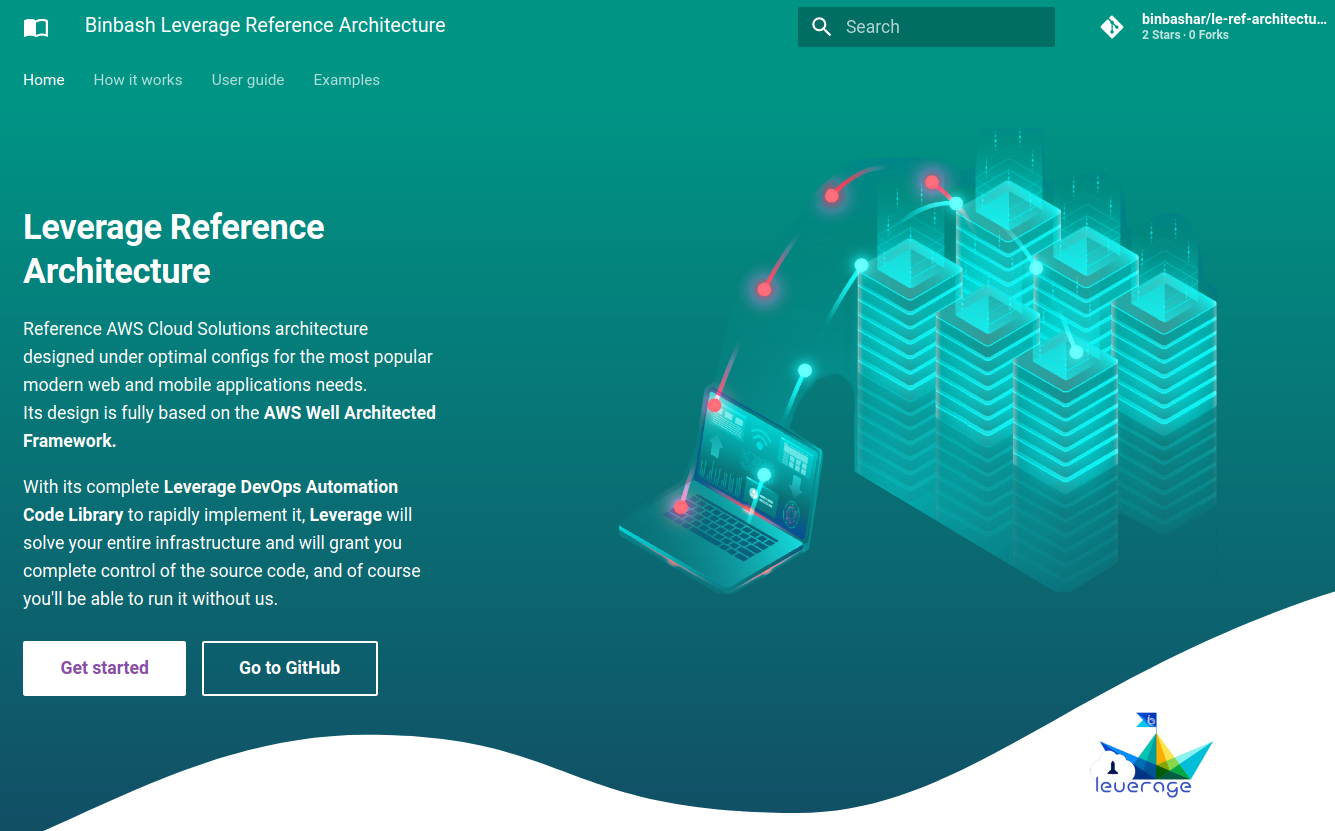
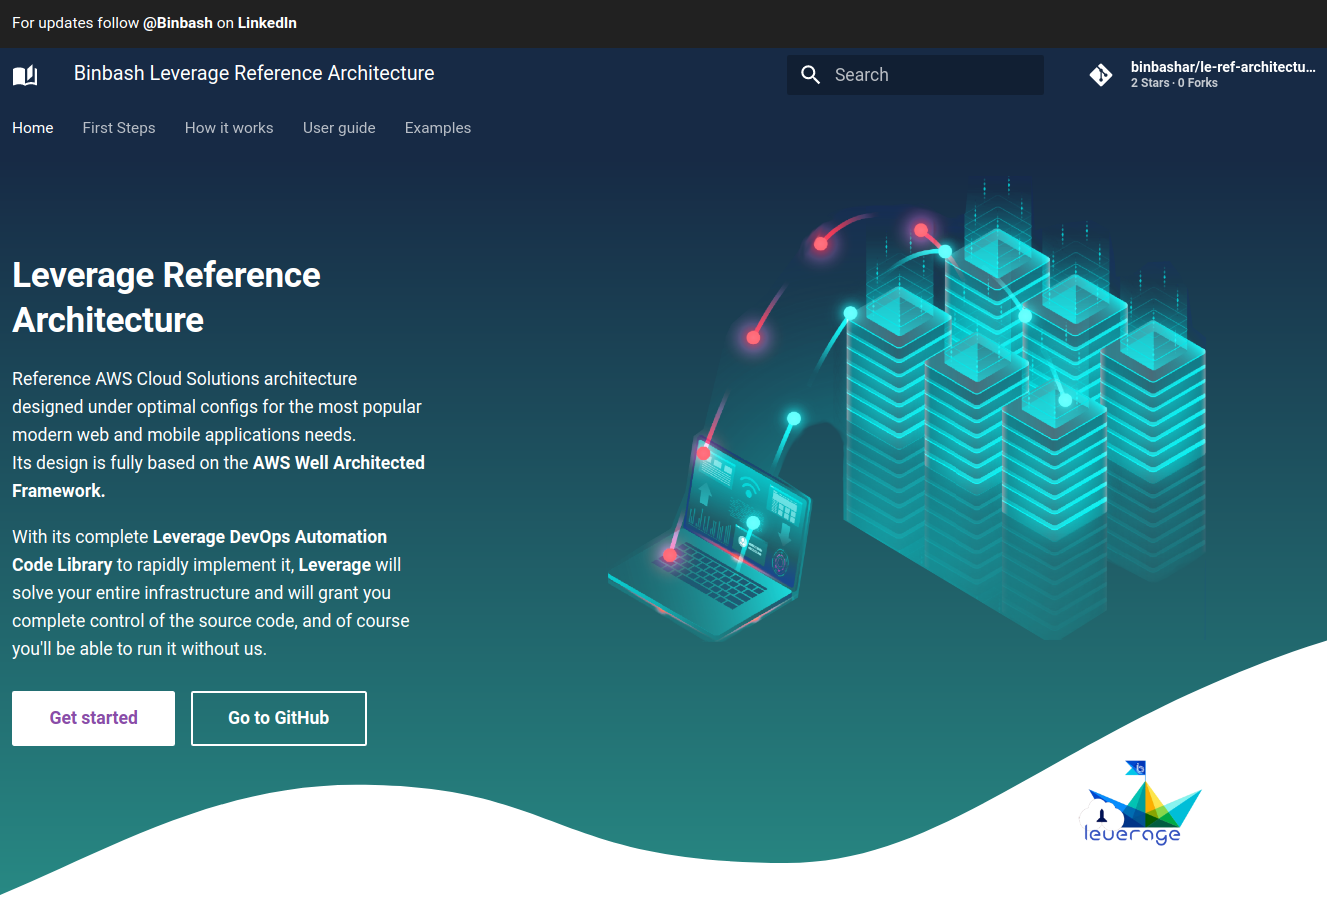
BBL-19 | user-guide/network/vpc updated + minor changes

diff --git a/docs/user-guide/network/vpc.md b/docs/user-guide/network/vpc.md
@@ -1,7 +1,31 @@
 # Network Layer
 
-## How it works
-TODO
-
+!!! help "How it works"
+    :books: [**documentation:** Networking](../../how-it-works/network/vpc.md)
+    
 ## User guide
-TODO
+
+Please follow the steps below to orchestrate your `base-network` layer, 1st in your
+[`project-shared`](https://github.com/binbashar/le-tf-infra-aws/tree/master/shared/base-network) AWS account and
+afterwards in the necessary member accounts which will host network connected resources (EC2, Lambda, EKS, RDS, ALB, NLB, etc):  
+
+* [x] [`project-apps-devstg`](https://github.com/binbashar/le-tf-infra-aws/tree/master/apps-devstg/base-network) account.
+* [x] [`project-apps-prd`](https://github.com/binbashar/le-tf-infra-aws/tree/master/apps-prd/base-network) account.
+
+!!! example "Network layer standard creation workflow"
+    1. Please follow 
+    [Terraform `make` workflow](https://leverage.binbash.com.ar/user-guide/base-workflow/repo-le-tf-infra-aws/) for
+    each of your accounts.
+    2. We'll start by `project-shared` AWS Account Update (add | remove | customize) your VPC associated code before 
+    deploying this layer [shared/base-network](https://github.com/binbashar/le-tf-infra-aws/tree/master/shared/base-network)
+        Main files
+        - :file_folder: [network.tf](https://github.com/binbashar/le-tf-infra-aws/blob/master/shared/base-network/network.tf)
+        - :file_folder: [locals.tf](https://github.com/binbashar/le-tf-infra-aws/blob/master/shared/base-network/locals.tf)
+    3. Repeat for every AWS member Account that needs its own VPC 
+    [Access AWS Organization member account](https://aws.amazon.com/premiumsupport/knowledge-center/organizations-member-account-access/)        
+    consider repeating step 3. but for the corresponding member accounts.
+
+
+### Next Steps
+
+:books: [AWS VPC Peering](vpc-peering.md)

diff --git a/docs/user-guide/identities/identities.md b/docs/user-guide/identities/identities.md
@@ -15,6 +15,7 @@ afterwards in your [`project-security`](https://github.com/binbashar/le-tf-infra
     [Terraform `make` workflow](https://leverage.binbash.com.ar/user-guide/base-workflow/repo-le-tf-infra-aws/)
     3. Update (add | remove) your IAM Users associated code and deploy 
     [security/base-identities/users.tf](https://github.com/binbashibilitySRL/devops-tf-infra/blob/master/security/base-identities/users.tf)
+        - :ledger: Consider customizing your [account Alias and Password Policy](https://github.com/binbashar/le-tf-infra-aws/blob/master/security/base-identities/account.tf)
     4. Update (add | remove | edit) your IAM Groups associated code and deploy 
     [security/base-identities/groups.tf](https://github.com/binbashibilitySRL/devops-tf-infra/blob/master/security/base-identities/groups.tf)
     5. Get and share the IAM Users AWS Console user id and its OTP associated password from the 
@@ -29,6 +30,12 @@ afterwards in your [`project-security`](https://github.com/binbashar/le-tf-infra
     if needed 
     10. User could optionally set up `~/.aws/project/credentials` + `~/.aws/project/config` following the immediately
      below **AWS Credentials Setup** sub-section
+    11. To allow users to 
+    [Access AWS Organization member account](https://aws.amazon.com/premiumsupport/knowledge-center/organizations-member-account-access/)        
+    consider repeating step 3. but for the corresponding member accounts:
+        - [shared/base-identities](https://github.com/binbashar/le-tf-infra-aws/tree/master/shared/base-identities)
+        - [apps-devstg/base-identities](https://github.com/binbashar/le-tf-infra-aws/tree/master/apps-devstg/base-identities)
+        - [app-prd/base-identities](https://github.com/binbashar/le-tf-infra-aws/tree/master/apps-prd/base-identities)
 
 
 ### Next Steps

diff --git a/docs/welcome.md b/docs/welcome.md
@@ -21,3 +21,5 @@ An its compose of the following 3 main repos:
 :books: See [**How it works**](./how-it-works/index.md) for a whirlwind tour that will get you started.
 
 :books: See [**User guide**](./user-guide/index.md) for a hands on help.
+
+:material-cursor-default-click-outline: Click on a tile to change the color scheme:
